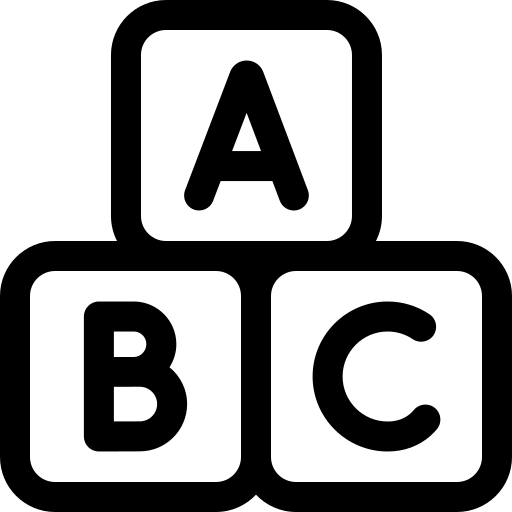
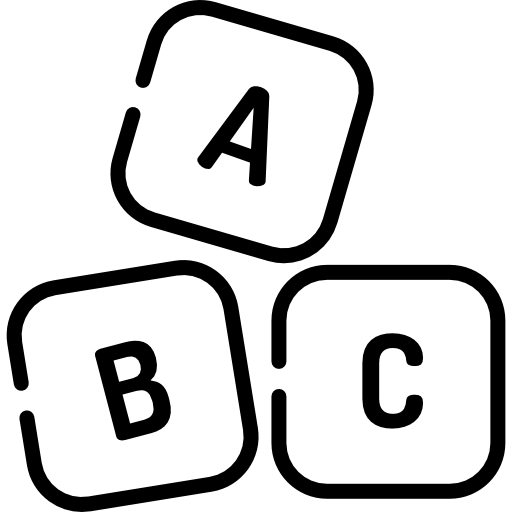
Styling resulaten pagina

diff --git a/WPF_Visualize/Views Statistics/ResultExercise.xaml b/WPF_Visualize/Views Statistics/ResultExercise.xaml
@@ -14,29 +14,47 @@
 
 
     <Grid>
-        <oxy:PlotView x:Name="Tekens_perseconde" Model="{Binding Stats}" Margin="400,189,69,38" />
+        <Grid.RowDefinitions>
+            <RowDefinition Height="0.5*" />
+            <RowDefinition Height="0.5*" />
+            <RowDefinition Height="0.5*" /> 
+            <RowDefinition Height="2*" />
+            <RowDefinition Height="1*" />
+        </Grid.RowDefinitions>
+        <Grid.ColumnDefinitions>
+            <ColumnDefinition Width="0.5*" />
+            <ColumnDefinition Width="2*" />
+            <ColumnDefinition Width="1*" />
+            <ColumnDefinition Width="4*" />
+            <ColumnDefinition Width="0.5*" />
 
-        <Button x:Name="Back" Content="Terug naar opdrachten" Grid.Row="0" HorizontalAlignment="Left"
-                VerticalAlignment="Top" Height="30" Width="130" Margin="10,10,0,0" Click="OnBack" />
-        <Label Content="Gemiddelde tekens per seconde:" HorizontalAlignment="Left" Margin="48,149,0,0"
-               VerticalAlignment="Top" />
-        <Label Content="Totale tijd opdracht:" HorizontalAlignment="Left" Margin="48,189,0,0" VerticalAlignment="Top" />
-        <Label Content="Aantal goed;" HorizontalAlignment="Left" Margin="48,286,0,0" VerticalAlignment="Top" />
-        <Label Content="Resultaat opdracht" HorizontalAlignment="Center" Margin="0,35,0,0" VerticalAlignment="Top"
-               FontSize="36" />
-        <Label Content="Aantal fouten:" HorizontalAlignment="Left" Margin="48,255,0,0" VerticalAlignment="Top" />
-        <Label Content="Percentage goed:" HorizontalAlignment="Left" Margin="48,317,0,0" VerticalAlignment="Top" />
+        </Grid.ColumnDefinitions>
 
-        <Label x:Name="Feedback" Content="Feedback" HorizontalAlignment="Left" Margin="400,149,0,0"
-               VerticalAlignment="Top" />
-        <Label x:Name="WPS" Content="WPS" HorizontalAlignment="Left" Margin="258,149,0,0" VerticalAlignment="Top" />
-        <Label x:Name="Totaltime" Content="Tijd" HorizontalAlignment="Left" Margin="258,189,0,0"
-               VerticalAlignment="Top" />
-        <Label x:Name="MistakeCount" Content="Fouten" HorizontalAlignment="Left" Margin="182,255,0,0"
-               VerticalAlignment="Top" />
-        <Label x:Name="CorrectCount" Content="Goed" HorizontalAlignment="Left" Margin="182,286,0,0"
-               VerticalAlignment="Top" />
-        <Label x:Name="CorrectPercentage" Content="Goed%" HorizontalAlignment="Left" Margin="182,317,0,0"
-               VerticalAlignment="Top" />
+
+
+        <oxy:PlotView x:Name="Tekens_perseconde" Model="{Binding Stats}" Grid.Column="3" Grid.Row="3" IsMouseWheelEnabled="false"
+                      oxy:Background="Transparent"/>
+
+
+
+        <Button x:Name="Back" Content="Terug" Grid.Row="0" Click="OnBack" Style="{StaticResource BackButton}" />
+
+        <Label Content="Resultaat opdracht" Grid.Column="1" Grid.Row="1" Foreground="White" FontSize="35"/>
+        <Label x:Name="Feedback" Content="Feedback" Grid.Column="1" Grid.Row="2" Foreground="White" FontSize="30"/>
+
+        <Label Content="Gemiddelde tekens per seconde:" Grid.Row="3" Grid.Column="1" Height="40" Foreground="White" FontSize="20" Margin="0,0,0,160" />
+        <Label Content="Totale tijd opdracht:" Grid.Row="3" Grid.Column="1"  Height="40" Foreground="White" FontSize="20" Margin="0,40,0,120"/>
+        <Label Content="Aantal goed:" Grid.Row="3" Grid.Column="1"  Height="40" Foreground="White" FontSize="20" Grid.ColumnSpan="2" Margin="2,80,78,80"/>
+        <Label Content="Aantal fouten:" Grid.Row="3" Grid.Column="1"  Height="40" Foreground="White" FontSize="20" Margin="0,120,0,40"/>
+        <Label Content="Percentage goed:" Grid.Row="3" Grid.Column="1"  Height="40" Foreground="White" FontSize="20" Margin="0,160,0,0"/>
+
+
+
+        <Label x:Name="WPS" Content="WPS" Grid.Row="3" Grid.Column="2"  Height="40"  Foreground="White" FontSize="20" Margin="0,0,0,160"/>
+        <Label x:Name="Totaltime"  Content="Tijd" Grid.Row="3" Grid.Column="2"  Height="40"  Foreground="White" FontSize="20" Margin="0,40,0,120"/>
+        <Label x:Name="CorrectCount" Content="Goed" Grid.Row="3" Grid.Column="2"  Height="40"  Foreground="White" FontSize="20" Margin="0,80,0,80"/>
+        <Label x:Name="MistakeCount" Content="Fouten" Grid.Row="3" Grid.Column="2"  Height="40"  Foreground="White" FontSize="20" Margin="0,120,0,40"/>
+        <Label x:Name="CorrectPercentage" Content="Goed%" Grid.Row="3" Grid.Column="2"  Height="40"  Foreground="White" FontSize="20" Margin="0,160,0,0"/>
+
     </Grid>
 </UserControl>

diff --git a/WPF_Visualize/Views Navigate/ExerciseSelect.xaml b/WPF_Visualize/Views Navigate/ExerciseSelect.xaml
@@ -49,7 +49,11 @@
         <Label Grid.Column="5" Grid.Row="1" Content="Verhaal Oefening" Style="{StaticResource LabelsSelecterScreens}" />
         <Button x:Name="StoryExercise" Grid.Row="2" Grid.Column="5" Click="OnStoryExercise"
                 Style="{StaticResource IconButtons}">
-            <Image Source="\Images\Exercise.jpg" />
+            <Button.Template>
+                <ControlTemplate>
+                    <Image Source="\Images\StoryExercise2.png" />
+                </ControlTemplate>
+            </Button.Template>
         </Button>
 
     </Grid>

diff --git a/WPF_Visualize/MainWindow.xaml b/WPF_Visualize/MainWindow.xaml
@@ -4,7 +4,7 @@
         xmlns:d="http://schemas.microsoft.com/expression/blend/2008"
         xmlns:mc="http://schemas.openxmlformats.org/markup-compatibility/2006"
         mc:Ignorable="d"
-        Title="MainWindow" WindowState="Maximized" WindowStyle="None">
+        Title="QWERTYping" WindowState="Maximized" WindowStyle="None">
     <Grid>
         <ContentControl x:Name="contentControl" Grid.Row="1" />
     </Grid>

diff --git a/WPF_Visualize/Views Statistics/Charts.cs b/WPF_Visualize/Views Statistics/Charts.cs
@@ -1,5 +1,6 @@
 using System.Collections.Generic;
 using OxyPlot;
+using OxyPlot.Axes;
 using OxyPlot.Series;
 
 namespace WPF_Visualize.Views_Statistics;
@@ -14,9 +15,43 @@ public class Charts
         for (var i = 1; i < Exercise.StatisticsController.CharactersPerSecond.Count; i++)
         {
             Data.Add(new DataPoint(i, Exercise.StatisticsController.CharactersPerSecond[i]));
-            Stats = new PlotModel { Title = "Tekens per seconde" };
+            Stats = new PlotModel { Title = "Tekens per seconde", TextColor = OxyColors.White, PlotAreaBorderColor = OxyColors.White };
             Stats.Series.Add(new LineSeries { ItemsSource = Data, Title = "Series 1" });
         }
+
+        var timeAxis = new LinearAxis()
+        {
+            Position = AxisPosition.Bottom,
+            Minimum = 0,
+            MinimumMajorStep = 1,
+            Title = "Seconden",
+            MajorGridlineStyle = LineStyle.Solid,
+            TextColor = OxyColors.White,
+            MajorGridlineColor = OxyColors.White,
+            TicklineColor = OxyColors.White,
+            MinorTicklineColor = OxyColors.White,
+            AxislineColor = OxyColors.White,
+            TitleColor = OxyColors.White,
+        };
+
+
+        var KeyPerSecondAxis = new LinearAxis()
+        {
+            Position = AxisPosition.Left,
+            Minimum = 0,
+            MinimumMajorStep = 0.5,
+            Title = "Tekens",
+            MajorGridlineStyle = LineStyle.Solid,
+            TextColor = OxyColors.White,
+            MajorGridlineColor = OxyColors.White,
+            TicklineColor = OxyColors.White,
+            MinorTicklineColor = OxyColors.White,
+            AxislineColor = OxyColors.White,
+            TitleColor = OxyColors.White,
+        };
+
+        Stats.Axes.Add(timeAxis);
+        Stats.Axes.Add(KeyPerSecondAxis);
     }
 
     public IList<DataPoint> Data { get; }
